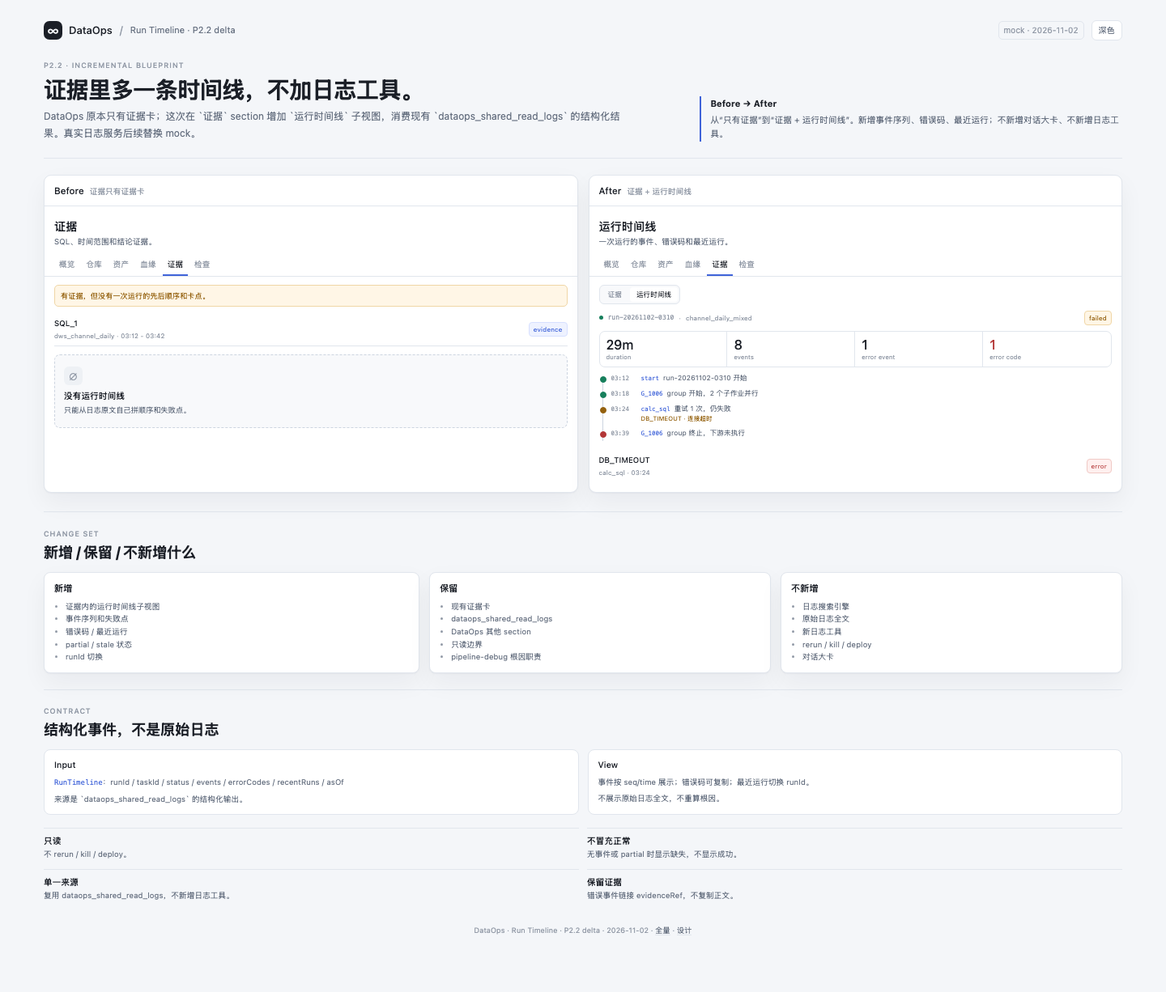
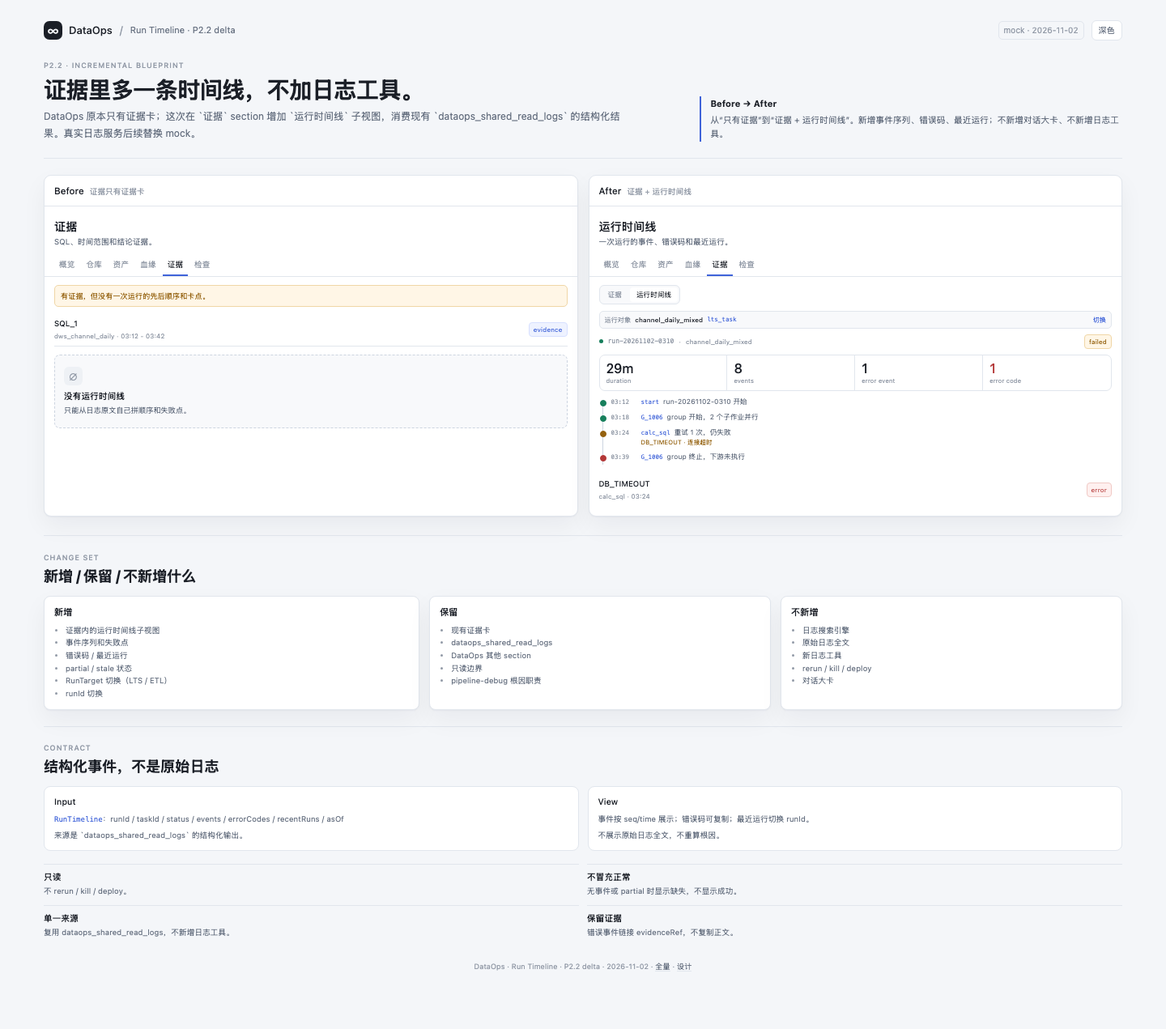
docs: add run target selector

diff --git a/prototype/run-timeline-blueprint.html b/prototype/run-timeline-blueprint.html
@@ -13,7 +13,8 @@
   .sidebar{background:var(--panel);border:1px solid var(--line);border-radius:10px;box-shadow:var(--shadow);display:flex;flex-direction:column;overflow:hidden}.side-tabs{height:39px;border-bottom:1px solid var(--line);display:flex;align-items:center;gap:13px;padding:0 14px;font-size:10px;color:var(--faint)}.side-tabs span{height:39px;display:flex;align-items:center;border-bottom:2px solid transparent}.side-tabs span.on{color:var(--ink);border-bottom-color:var(--brand)}.side-tabs .file{margin-left:auto}.panel{padding:0 18px 18px;display:flex;flex-direction:column;min-height:0;flex:1}.head{display:flex;align-items:flex-start;gap:10px;padding:14px 0 9px}.head-main{flex:1;min-width:0}.head h2{font-size:16px;line-height:21px;font-weight:500;margin:4px 0 0}.head .sub{font-size:9.5px;line-height:1.5;color:var(--muted);margin-top:4px}.head-actions{display:flex;gap:4px;flex:none;padding-top:1px}.btn{border:1px solid var(--line2);background:var(--panel);color:var(--muted);border-radius:6px;font-size:9.5px;line-height:23px;padding:0 8px;cursor:pointer;white-space:nowrap}.btn.primary{border-color:var(--brand);background:var(--brand);color:#fff}.btn:hover{border-color:var(--brand);color:var(--brand)}.btn.primary:hover{color:#fff}
   .nav{display:flex;gap:1px;margin:0 -18px;padding:0 18px;border-bottom:1px solid var(--line);overflow-x:auto}.nav span{display:flex;align-items:center;font-size:10px;line-height:30px;color:var(--faint);padding:0 7px;border-bottom:2px solid transparent;white-space:nowrap}.nav span.on{color:var(--ink);border-bottom-color:var(--brand)}.content{padding:11px 0 0;overflow:auto;min-height:0;flex:1}
   .subtabs{display:inline-flex;gap:2px;padding:2px;border:1px solid var(--line);border-radius:6px;background:var(--panel2);margin:0 0 9px}.subtabs span{font-size:9px;line-height:20px;padding:0 9px;border-radius:4px;color:var(--faint)}.subtabs span.on{background:var(--panel);color:var(--ink);box-shadow:0 1px 2px rgba(0,0,0,.04)}
-  .run-meta{display:flex;align-items:center;gap:7px;flex-wrap:wrap;color:var(--faint);font-size:8.5px;margin:0 0 7px}.run-meta .dot{width:5px;height:5px;border-radius:50%;background:var(--green)}.run-meta .sep{color:var(--line2)}.run-meta .badge{margin-left:auto}.badge{display:inline-flex;align-items:center;border:1px solid var(--line);border-radius:4px;padding:0 5px;line-height:16px;font-size:8px;color:var(--muted);background:var(--panel);white-space:nowrap}.badge.green{color:var(--green);border-color:var(--green-line);background:var(--green-bg)}.badge.amber{color:var(--amber);border-color:var(--amber-line);background:var(--amber-bg)}.badge.red{color:var(--red);border-color:var(--red-line);background:var(--red-bg)}.badge.blue{color:var(--brand);border-color:var(--brand-line);background:var(--brand-bg)}
+  .object-switch{display:flex;align-items:center;gap:6px;border:1px solid var(--line);border-radius:6px;background:var(--panel2);padding:4px 6px;margin:0 0 8px;font-size:8.5px;color:var(--faint)}.object-switch b{font-weight:500;color:var(--ink)}.object-switch .kind{color:var(--brand);font-family:var(--mono);font-size:8px}.object-switch .switch{margin-left:auto;color:var(--brand);cursor:pointer}
+.run-meta{display:flex;align-items:center;gap:7px;flex-wrap:wrap;color:var(--faint);font-size:8.5px;margin:0 0 7px}.run-meta .dot{width:5px;height:5px;border-radius:50%;background:var(--green)}.run-meta .sep{color:var(--line2)}.run-meta .badge{margin-left:auto}.badge{display:inline-flex;align-items:center;border:1px solid var(--line);border-radius:4px;padding:0 5px;line-height:16px;font-size:8px;color:var(--muted);background:var(--panel);white-space:nowrap}.badge.green{color:var(--green);border-color:var(--green-line);background:var(--green-bg)}.badge.amber{color:var(--amber);border-color:var(--amber-line);background:var(--amber-bg)}.badge.red{color:var(--red);border-color:var(--red-line);background:var(--red-bg)}.badge.blue{color:var(--brand);border-color:var(--brand-line);background:var(--brand-bg)}
   .summary{display:grid;grid-template-columns:repeat(4,minmax(0,1fr));border:1px solid var(--line);border-radius:8px;overflow:hidden;margin:0 0 8px}.metric{padding:8px 9px 7px;border-right:1px solid var(--line);min-width:0}.metric:last-child{border-right:0}.metric b{display:block;font-size:18px;line-height:20px;font-weight:500;letter-spacing:-.3px}.metric span{display:block;font-size:8px;color:var(--faint);white-space:nowrap;overflow:hidden;text-overflow:ellipsis;margin-top:1px}.metric.warn b{color:var(--amber)}.metric.err b{color:var(--red)}
   .label{display:flex;align-items:center;gap:7px;color:var(--faint);font-size:8px;font-weight:500;text-transform:uppercase;letter-spacing:.07em;margin:11px 0 5px}.label:after{content:"";height:1px;background:var(--line);flex:1}.label .link{color:var(--brand);font-size:8px;text-transform:none;letter-spacing:0;cursor:pointer}
   .timeline{position:relative;padding-left:17px}.timeline:before{content:"";position:absolute;left:5px;top:4px;bottom:4px;width:1px;background:var(--line2)}.event{position:relative;padding:0 0 10px 0;font-size:9.5px;line-height:1.45}.event:before{content:"";position:absolute;left:-16px;top:4px;width:7px;height:7px;border-radius:50%;background:var(--panel);border:1px solid var(--line2)}.event.ok:before{background:var(--green);border-color:var(--green)}.event.warn:before{background:var(--amber);border-color:var(--amber)}.event.err:before{background:var(--red);border-color:var(--red)}.event-head{display:flex;align-items:baseline;gap:6px;min-width:0}.event-time{font-family:var(--mono);font-size:8px;color:var(--faint);flex:none;width:40px}.event-job{font-family:var(--mono);font-size:8.5px;color:var(--brand);flex:none}.event-msg{color:var(--muted);min-width:0;overflow:hidden;text-overflow:ellipsis;white-space:nowrap}.event-detail{color:var(--faint);font-size:8.5px;margin-left:46px;margin-top:1px}.event-detail code{font-family:var(--mono);font-size:8px;color:var(--red);background:var(--red-bg);padding:0 3px;border-radius:3px}
@@ -33,10 +34,11 @@
   <section class="hero"><div><div class="eyebrow">P2.2 · RUN TIMELINE</div><h1>先发生了什么，卡在哪。</h1><p>Run Timeline 把 `dataops_shared_read_logs` 的结构化结果整理成一条可读时间线。它不解析原始日志、不下根因结论，也不触发 rerun。</p></div><div class="scope"><b>入口</b>DataOps → 证据 → 运行时间线；复用现有 logs tool；不新增对话卡，不新增日志工具。</div></section>
   <section class="specimen">
     <div class="chat"><div class="chat-head"><b>数据运行排障</b><span class="chat-tabs"><span>对话</span><span>轨迹</span><span>开发</span></span></div><div class="chat-body"><div class="msg">channel_daily 凌晨没出数，先看下运行时间线。</div><div class="msg user">只读，不要重跑任务。</div><div class="msg">已读取最近一次 failed run。右侧证据里可以按时间看调度、作业和失败点。</div></div><div class="chat-input">发消息或创建任务，/ 调用指令，@ 文件或对话</div></div>
-    <aside class="sidebar"><div class="side-tabs"><span class="on">DataOps</span><span>文件</span></div><div class="panel"><div class="head"><div class="head-main"><div class="eyebrow">DATAOPS / EVIDENCE</div><h2>运行时间线</h2><div class="sub">一次运行的事件、错误码和最近运行。</div></div><div class="head-actions"><button class="btn">刷新</button><button class="btn">打开证据</button></div></div><div class="nav"><span>概览</span><span>仓库</span><span>资产</span><span>血缘</span><span class="on">证据</span><span>检查</span></div><div class="content"><div class="subtabs"><span>证据</span><span class="on">运行时间线</span></div><div class="run-meta"><i class="dot"></i><span class="mono">run-20261102-0310</span><span class="sep">·</span><span>channel_daily_mixed</span><span class="sep">·</span><span>as of 03:42</span><span class="badge amber">failed</span></div><div class="summary"><div class="metric"><b>29m</b><span>duration</span></div><div class="metric"><b>8</b><span>events</span></div><div class="metric warn"><b>1</b><span>error event</span></div><div class="metric err"><b>1</b><span>error code</span></div></div><div class="note"><b>Mock 数据</b> 来自 channel-report 场景；真实日志服务后续接入。</div><div class="label">时间线 <span class="link">只读</span></div><div class="timeline"><div class="event ok"><div class="event-head"><span class="event-time">03:10</span><span class="event-job">scheduler</span><span class="event-msg">任务进入调度队列</span></div></div><div class="event ok"><div class="event-head"><span class="event-time">03:12</span><span class="event-job">start</span><span class="event-msg">run-20261102-0310 开始</span></div></div><div class="event ok"><div class="event-head"><span class="event-time">03:13</span><span class="event-job">load_check</span><span class="event-msg">上游检查通过，等待依赖</span></div></div><div class="event ok"><div class="event-head"><span class="event-time">03:18</span><span class="event-job">G_1006</span><span class="event-msg">group 开始，2 个子作业并行</span></div></div><div class="event warn"><div class="event-head"><span class="event-time">03:24</span><span class="event-job">calc_sql</span><span class="event-msg">作业重试 1 次，仍失败</span></div><div class="event-detail"><code>DB_TIMEOUT</code> · 连接超时，重试间隔 30s</div></div><div class="event err"><div class="event-head"><span class="event-time">03:39</span><span class="event-job">G_1006</span><span class="event-msg">group 终止，下游未执行</span></div></div><div class="event"><div class="event-head"><span class="event-time">03:42</span><span class="event-job">end</span><span class="event-msg">run failed</span></div></div></div><div class="label">错误码 <span class="link">复制</span></div><div class="row"><div class="row-main"><b>DB_TIMEOUT</b><span class="sub">calc_sql · 03:24</span></div><div class="right"><span class="badge red">error</span></div></div><div class="label">最近运行 <span class="link">切换 runId</span></div><div class="row"><div class="row-main"><b>run-20261102-0310</b><span class="sub">failed · 29m</span></div><div class="right">当前</div></div><div class="row"><div class="row-main"><b>run-20261101-0310</b><span class="sub">success · 26m</span></div><div class="right">昨天</div></div></div></div></aside>
+    <aside class="sidebar"><div class="side-tabs"><span class="on">DataOps</span><span>文件</span></div><div class="panel"><div class="head"><div class="head-main"><div class="eyebrow">DATAOPS / EVIDENCE</div><h2>运行时间线</h2><div class="sub">一次运行的事件、错误码和最近运行。</div></div><div class="head-actions"><button class="btn">刷新</button><button class="btn">打开证据</button></div></div><div class="nav"><span>概览</span><span>仓库</span><span>资产</span><span>血缘</span><span class="on">证据</span><span>检查</span></div><div class="content"><div class="subtabs"><span>证据</span><span class="on">运行时间线</span></div>
+<div class="object-switch"><span>运行对象</span><b>channel_daily_mixed</b><span class="kind">lts_task</span><span class="switch">切换</span></div><div class="run-meta"><i class="dot"></i><span class="mono">run-20261102-0310</span><span class="sep">·</span><span>channel_daily_mixed</span><span class="sep">·</span><span>as of 03:42</span><span class="badge amber">failed</span></div><div class="summary"><div class="metric"><b>29m</b><span>duration</span></div><div class="metric"><b>8</b><span>events</span></div><div class="metric warn"><b>1</b><span>error event</span></div><div class="metric err"><b>1</b><span>error code</span></div></div><div class="note"><b>Mock 数据</b> 来自 channel-report 场景；真实日志服务后续接入。</div><div class="label">时间线 <span class="link">只读</span></div><div class="timeline"><div class="event ok"><div class="event-head"><span class="event-time">03:10</span><span class="event-job">scheduler</span><span class="event-msg">任务进入调度队列</span></div></div><div class="event ok"><div class="event-head"><span class="event-time">03:12</span><span class="event-job">start</span><span class="event-msg">run-20261102-0310 开始</span></div></div><div class="event ok"><div class="event-head"><span class="event-time">03:13</span><span class="event-job">load_check</span><span class="event-msg">上游检查通过，等待依赖</span></div></div><div class="event ok"><div class="event-head"><span class="event-time">03:18</span><span class="event-job">G_1006</span><span class="event-msg">group 开始，2 个子作业并行</span></div></div><div class="event warn"><div class="event-head"><span class="event-time">03:24</span><span class="event-job">calc_sql</span><span class="event-msg">作业重试 1 次，仍失败</span></div><div class="event-detail"><code>DB_TIMEOUT</code> · 连接超时，重试间隔 30s</div></div><div class="event err"><div class="event-head"><span class="event-time">03:39</span><span class="event-job">G_1006</span><span class="event-msg">group 终止，下游未执行</span></div></div><div class="event"><div class="event-head"><span class="event-time">03:42</span><span class="event-job">end</span><span class="event-msg">run failed</span></div></div></div><div class="label">错误码 <span class="link">复制</span></div><div class="row"><div class="row-main"><b>DB_TIMEOUT</b><span class="sub">calc_sql · 03:24</span></div><div class="right"><span class="badge red">error</span></div></div><div class="label">最近运行 <span class="link">切换 runId</span></div><div class="row"><div class="row-main"><b>run-20261102-0310</b><span class="sub">failed · 29m</span></div><div class="right">当前</div></div><div class="row"><div class="row-main"><b>run-20261101-0310</b><span class="sub">success · 26m</span></div><div class="right">昨天</div></div></div></div></aside>
   </section>
   <section class="boundary"><div class="card"><h3>输入</h3><ul><li>`dataops_shared_read_logs` 输出</li><li>events / errorCodes / recentRuns</li><li>upstream / downstream 引用</li><li>runId / taskId / asOf</li></ul></div><div class="card"><h3>边界</h3><p>时间线是日志信号的投影，不解析原始日志；根因判断由 `pipeline-debug` / 用户完成。只读，不 rerun / kill / deploy。</p></div></section>
-  <section class="states"><div class="eyebrow">STATE GALLERY</div><h2>空状态不冒充正常</h2><div class="state-grid"><article class="state-card"><div class="eyebrow">无 runId</div><div class="empty"><div class="mark2">∅</div><b>尚未读取运行日志</b><p>先通过 dataops_shared_read_logs 读取一次任务运行。</p></div></article><article class="state-card"><div class="eyebrow">running</div><b>run-20261102-0310 · running</b><p style="margin-top:5px">显示事件流和当前阶段，不推测结果；不自动轮询。</p></article><article class="state-card"><div class="eyebrow">partial / stale</div><b>保留已有事件</b><p style="margin-top:5px">日志服务不完整时标注 partial / asOf，不显示全量成功。</p></article></div></section>
+  <section class="states"><div class="eyebrow">STATE GALLERY</div><h2>空状态不冒充正常</h2><div class="state-grid"><article class="state-card"><div class="eyebrow">无 runId</div><div class="empty"><div class="mark2">∅</div><b>尚未读取运行日志</b><p>先通过 dataops_shared_read_logs 读取一次任务运行。</p></div></article><article class="state-card"><div class="eyebrow">running</div><b>run-20261102-0310 · running</b><p style="margin-top:5px">显示事件流和当前阶段，不推测结果；不自动轮询。</p></article><article class="state-card"><div class="eyebrow">partial / stale</div><b>保留已有事件</b><p style="margin-top:5px">日志服务不完整时标注 partial / asOf，不显示全量成功。</p></article><article class="state-card"><div class="eyebrow">切换运行对象</div><b>LTS Task / ETL Job</b><p style="margin-top:5px">按对象搜索和 recentRuns 切换；不同日志源不可用时显示“未配置”，不伪造时间线。</p></article></div></section>
   <section class="flow"><div class="eyebrow">FLOW</div><h2>工具读日志，面板读结构</h2><div class="flow-grid"><div class="flow-card"><div class="n">01 · READ</div><b>dataops_shared_read_logs</b><p>读取 task / timeRange，返回结构化事件。</p></div><div class="arrow">→</div><div class="flow-card"><div class="n">02 · NORMALIZE</div><b>RunTimeline</b><p>events / errorCodes / recentRuns；不解析原始日志。</p></div><div class="arrow">→</div><div class="flow-card"><div class="n">03 · VIEW</div><b>证据 → 运行时间线</b><p>按时间、job、错误码展示；只读。</p></div></div></section>
   <section class="accept"><div><div class="eyebrow">ACCEPTANCE</div><h2>这一版必须成立的事</h2></div><ol><li>mock channel-report 显示 8 个事件</li><li>失败事件和 DB_TIMEOUT 可见</li><li>无 runId 显示空状态</li><li>running / partial / stale 有明确状态</li><li>不提供 rerun / kill</li><li>不新增对话大卡</li><li>复用唯一的 logs tool</li><li>不展示原始日志全文</li></ol></section>
   <div class="footer">DataOps · Run Timeline · P2.2 full blueprint · 2026-11-02 · <a href="run-timeline-blueprint-delta.html">增量</a> · <a href="../docs/design/run-timeline.md">设计</a></div>

diff --git a/prototype/run-timeline-blueprint-delta.html b/prototype/run-timeline-blueprint-delta.html
@@ -11,7 +11,8 @@
   .eyebrow{color:var(--faint);font-size:9px;font-weight:500;letter-spacing:.1em;text-transform:uppercase}.hero{display:grid;grid-template-columns:minmax(0,1.2fr) minmax(280px,.8fr);gap:28px;align-items:end;padding-bottom:20px;border-bottom:1px solid var(--line);margin-bottom:20px}.hero h1{font-size:28px;line-height:1.14;letter-spacing:-.8px;margin:7px 0 8px}.hero p{color:var(--muted);font-size:12px;line-height:1.7;margin:0;max-width:720px}.scope{border-left:2px solid var(--brand);padding-left:11px;color:var(--muted);font-size:10.5px;line-height:1.7}.scope b{display:block;color:var(--ink);font-size:11px;margin-bottom:2px}
   .compare{display:grid;grid-template-columns:1fr 1fr;gap:13px;margin-bottom:22px}.side{background:var(--panel);border:1px solid var(--line);border-radius:9px;box-shadow:var(--shadow);overflow:hidden}.side-head{display:flex;align-items:baseline;gap:7px;padding:10px 12px;border-bottom:1px solid var(--line)}.side-head b{font-size:11.5px;font-weight:500}.side-head span{color:var(--faint);font-size:9.5px}.panel{padding:12px;min-height:285px}.panel-title{font-size:14px;font-weight:500;margin:2px 0 2px}.panel-sub{color:var(--muted);font-size:9.5px;line-height:1.5;margin-bottom:8px}.nav{display:flex;gap:2px;border-bottom:1px solid var(--line);margin:0 -12px 10px;padding:0 12px;overflow:hidden}.nav span{font-size:9.5px;color:var(--faint);padding:5px 6px;border-bottom:2px solid transparent;white-space:nowrap}.nav span.on{color:var(--ink);border-bottom-color:var(--brand)}.subtabs{display:inline-flex;gap:2px;padding:2px;border:1px solid var(--line);border-radius:6px;background:var(--panel2);margin-bottom:8px}.subtabs span{font-size:8.5px;line-height:18px;padding:0 8px;border-radius:4px;color:var(--faint)}.subtabs span.on{background:var(--panel);color:var(--ink)}
   .before-note{border:1px solid var(--amber-line);background:var(--amber-bg);color:var(--amber);border-radius:5px;padding:6px 7px;font-size:9px;line-height:1.5;margin:0 0 8px}.empty{border:1px dashed var(--line2);border-radius:7px;background:var(--panel2);padding:14px 11px}.empty .mark2{width:23px;height:23px;border-radius:6px;background:var(--panel3);color:var(--faint);display:grid;place-items:center;font-size:15px;margin-bottom:6px}.empty b{display:block;font-size:10.5px;font-weight:500}.empty p{font-size:9px;line-height:1.5;color:var(--muted);margin:3px 0 0;max-width:400px}
-  .meta{display:flex;gap:6px;align-items:center;flex-wrap:wrap;color:var(--faint);font-size:8px;margin-bottom:7px}.meta .dot{width:5px;height:5px;border-radius:50%;background:var(--green)}.meta .chip{margin-left:auto}.chip{display:inline-flex;align-items:center;border:1px solid var(--line);border-radius:4px;padding:0 5px;line-height:16px;font-size:8px;color:var(--muted);background:var(--panel2);white-space:nowrap}.chip.amber{color:var(--amber);border-color:var(--amber-line);background:var(--amber-bg)}.chip.red{color:var(--red);border-color:var(--red-line);background:var(--red-bg)}.chip.blue{color:var(--brand);border-color:var(--brand-line);background:var(--brand-bg)}
+  .object-switch{display:flex;align-items:center;gap:5px;border:1px solid var(--line);border-radius:5px;background:var(--panel2);padding:4px 6px;margin:0 0 7px;font-size:8px;color:var(--faint)}.object-switch b{font-weight:500;color:var(--ink)}.object-switch .kind{color:var(--brand);font-family:var(--mono);font-size:7.5px}.object-switch .switch{margin-left:auto;color:var(--brand)}
+.meta{display:flex;gap:6px;align-items:center;flex-wrap:wrap;color:var(--faint);font-size:8px;margin-bottom:7px}.meta .dot{width:5px;height:5px;border-radius:50%;background:var(--green)}.meta .chip{margin-left:auto}.chip{display:inline-flex;align-items:center;border:1px solid var(--line);border-radius:4px;padding:0 5px;line-height:16px;font-size:8px;color:var(--muted);background:var(--panel2);white-space:nowrap}.chip.amber{color:var(--amber);border-color:var(--amber-line);background:var(--amber-bg)}.chip.red{color:var(--red);border-color:var(--red-line);background:var(--red-bg)}.chip.blue{color:var(--brand);border-color:var(--brand-line);background:var(--brand-bg)}
   .summary{display:grid;grid-template-columns:repeat(4,minmax(0,1fr));border:1px solid var(--line);border-radius:7px;overflow:hidden;margin:7px 0 8px}.metric{padding:7px 8px 6px;border-right:1px solid var(--line)}.metric:last-child{border-right:0}.metric b{display:block;font-size:16px;line-height:18px;font-weight:500}.metric span{font-size:7.5px;color:var(--faint);display:block;margin-top:1px;white-space:nowrap;overflow:hidden;text-overflow:ellipsis}.metric.red b{color:var(--red)}
   .timeline{position:relative;padding-left:15px}.timeline:before{content:"";position:absolute;left:4px;top:4px;bottom:4px;width:1px;background:var(--line2)}.event{position:relative;padding:0 0 7px;font-size:8.5px;line-height:1.4}.event:before{content:"";position:absolute;left:-14px;top:3px;width:6px;height:6px;border-radius:50%;background:var(--panel);border:1px solid var(--line2)}.event.ok:before{background:var(--green);border-color:var(--green)}.event.warn:before{background:var(--amber);border-color:var(--amber)}.event.err:before{background:var(--red);border-color:var(--red)}.event-head{display:flex;gap:5px;align-items:baseline;min-width:0}.event-time{font-family:var(--mono);font-size:7.5px;color:var(--faint);width:32px;flex:none}.event-job{font-family:var(--mono);font-size:7.5px;color:var(--brand);flex:none}.event-msg{color:var(--muted);white-space:nowrap;overflow:hidden;text-overflow:ellipsis}.event-detail{font-size:7.5px;color:var(--amber);margin-left:37px;margin-top:1px}
   .row{display:flex;align-items:center;gap:7px;border-bottom:1px solid var(--line);padding:6px 0;min-width:0}.row:last-child{border-bottom:0}.row-main{flex:1;min-width:0}.row b{display:block;font-size:9.5px;font-weight:500;white-space:nowrap;overflow:hidden;text-overflow:ellipsis}.row .sub{display:block;font-size:8px;color:var(--faint);margin-top:1px;white-space:nowrap;overflow:hidden;text-overflow:ellipsis}.row .right{font-size:8px;color:var(--muted);display:flex;gap:5px;align-items:center;flex:none}
@@ -28,9 +29,9 @@
   <section class="hero"><div><div class="eyebrow">P2.2 · INCREMENTAL BLUEPRINT</div><h1>证据里多一条时间线，不加日志工具。</h1><p>DataOps 原本只有证据卡；这次在 `证据` section 增加 `运行时间线` 子视图，消费现有 `dataops_shared_read_logs` 的结构化结果。真实日志服务后续替换 mock。</p></div><div class="scope"><b>Before → After</b>从“只有证据”到“证据 + 运行时间线”。新增事件序列、错误码、最近运行；不新增对话大卡、不新增日志工具。</div></section>
   <section class="compare">
     <article class="side"><div class="side-head"><b>Before</b><span>证据只有证据卡</span></div><div class="panel"><div class="panel-title">证据</div><div class="panel-sub">SQL、时间范围和结论证据。</div><div class="nav"><span>概览</span><span>仓库</span><span>资产</span><span>血缘</span><span class="on">证据</span><span>检查</span></div><div class="before-note">有证据，但没有一次运行的先后顺序和卡点。</div><div class="row"><div class="row-main"><b>SQL_1</b><span class="sub">dws_channel_daily · 03:12 - 03:42</span></div><div class="right"><span class="chip blue">evidence</span></div></div><div class="empty" style="margin-top:10px"><div class="mark2">∅</div><b>没有运行时间线</b><p>只能从日志原文自己拼顺序和失败点。</p></div></div></article>
-    <article class="side"><div class="side-head"><b>After</b><span>证据 + 运行时间线</span></div><div class="panel"><div class="panel-title">运行时间线</div><div class="panel-sub">一次运行的事件、错误码和最近运行。</div><div class="nav"><span>概览</span><span>仓库</span><span>资产</span><span>血缘</span><span class="on">证据</span><span>检查</span></div><div class="subtabs"><span>证据</span><span class="on">运行时间线</span></div><div class="meta"><i class="dot"></i><span class="mono">run-20261102-0310</span><span>·</span><span>channel_daily_mixed</span><span class="chip amber">failed</span></div><div class="summary"><div class="metric"><b>29m</b><span>duration</span></div><div class="metric"><b>8</b><span>events</span></div><div class="metric"><b>1</b><span>error event</span></div><div class="metric red"><b>1</b><span>error code</span></div></div><div class="timeline"><div class="event ok"><div class="event-head"><span class="event-time">03:12</span><span class="event-job">start</span><span class="event-msg">run-20261102-0310 开始</span></div></div><div class="event ok"><div class="event-head"><span class="event-time">03:18</span><span class="event-job">G_1006</span><span class="event-msg">group 开始，2 个子作业并行</span></div></div><div class="event warn"><div class="event-head"><span class="event-time">03:24</span><span class="event-job">calc_sql</span><span class="event-msg">重试 1 次，仍失败</span></div><div class="event-detail">DB_TIMEOUT · 连接超时</div></div><div class="event err"><div class="event-head"><span class="event-time">03:39</span><span class="event-job">G_1006</span><span class="event-msg">group 终止，下游未执行</span></div></div></div><div class="row" style="margin-top:7px"><div class="row-main"><b>DB_TIMEOUT</b><span class="sub">calc_sql · 03:24</span></div><div class="right"><span class="chip red">error</span></div></div></div></article>
+    <article class="side"><div class="side-head"><b>After</b><span>证据 + 运行时间线</span></div><div class="panel"><div class="panel-title">运行时间线</div><div class="panel-sub">一次运行的事件、错误码和最近运行。</div><div class="nav"><span>概览</span><span>仓库</span><span>资产</span><span>血缘</span><span class="on">证据</span><span>检查</span></div><div class="subtabs"><span>证据</span><span class="on">运行时间线</span></div><div class="object-switch"><span>运行对象</span><b>channel_daily_mixed</b><span class="kind">lts_task</span><span class="switch">切换</span></div><div class="meta"><i class="dot"></i><span class="mono">run-20261102-0310</span><span>·</span><span>channel_daily_mixed</span><span class="chip amber">failed</span></div><div class="summary"><div class="metric"><b>29m</b><span>duration</span></div><div class="metric"><b>8</b><span>events</span></div><div class="metric"><b>1</b><span>error event</span></div><div class="metric red"><b>1</b><span>error code</span></div></div><div class="timeline"><div class="event ok"><div class="event-head"><span class="event-time">03:12</span><span class="event-job">start</span><span class="event-msg">run-20261102-0310 开始</span></div></div><div class="event ok"><div class="event-head"><span class="event-time">03:18</span><span class="event-job">G_1006</span><span class="event-msg">group 开始，2 个子作业并行</span></div></div><div class="event warn"><div class="event-head"><span class="event-time">03:24</span><span class="event-job">calc_sql</span><span class="event-msg">重试 1 次，仍失败</span></div><div class="event-detail">DB_TIMEOUT · 连接超时</div></div><div class="event err"><div class="event-head"><span class="event-time">03:39</span><span class="event-job">G_1006</span><span class="event-msg">group 终止，下游未执行</span></div></div></div><div class="row" style="margin-top:7px"><div class="row-main"><b>DB_TIMEOUT</b><span class="sub">calc_sql · 03:24</span></div><div class="right"><span class="chip red">error</span></div></div></div></article>
   </section>
-  <section class="changes"><div class="eyebrow">CHANGE SET</div><h2>新增 / 保留 / 不新增什么</h2><div class="change-grid"><div class="change-col"><h3>新增</h3><ul><li>证据内的运行时间线子视图</li><li>事件序列和失败点</li><li>错误码 / 最近运行</li><li>partial / stale 状态</li><li>runId 切换</li></ul></div><div class="change-col"><h3>保留</h3><ul><li>现有证据卡</li><li>dataops_shared_read_logs</li><li>DataOps 其他 section</li><li>只读边界</li><li>pipeline-debug 根因职责</li></ul></div><div class="change-col"><h3>不新增</h3><ul><li>日志搜索引擎</li><li>原始日志全文</li><li>新日志工具</li><li>rerun / kill / deploy</li><li>对话大卡</li></ul></div></div></section>
+  <section class="changes"><div class="eyebrow">CHANGE SET</div><h2>新增 / 保留 / 不新增什么</h2><div class="change-grid"><div class="change-col"><h3>新增</h3><ul><li>证据内的运行时间线子视图</li><li>事件序列和失败点</li><li>错误码 / 最近运行</li><li>partial / stale 状态</li><li>RunTarget 切换（LTS / ETL）</li><li>runId 切换</li></ul></div><div class="change-col"><h3>保留</h3><ul><li>现有证据卡</li><li>dataops_shared_read_logs</li><li>DataOps 其他 section</li><li>只读边界</li><li>pipeline-debug 根因职责</li></ul></div><div class="change-col"><h3>不新增</h3><ul><li>日志搜索引擎</li><li>原始日志全文</li><li>新日志工具</li><li>rerun / kill / deploy</li><li>对话大卡</li></ul></div></div></section>
   <section class="contract"><div class="eyebrow">CONTRACT</div><h2>结构化事件，不是原始日志</h2><div class="contract-grid"><div class="contract-card"><h3>Input</h3><p><code>RunTimeline</code>：runId / taskId / status / events / errorCodes / recentRuns / asOf</p><p style="margin-top:5px">来源是 `dataops_shared_read_logs` 的结构化输出。</p></div><div class="contract-card"><h3>View</h3><p>事件按 seq/time 展示；错误码可复制；最近运行切换 runId。</p><p style="margin-top:5px">不展示原始日志全文，不重算根因。</p></div></div><div class="invariants"><div class="invariant"><b>只读</b>不 rerun / kill / deploy。</div><div class="invariant"><b>不冒充正常</b>无事件或 partial 时显示缺失，不显示成功。</div><div class="invariant"><b>单一来源</b>复用 dataops_shared_read_logs，不新增日志工具。</div><div class="invariant"><b>保留证据</b>错误事件链接 evidenceRef，不复制正文。</div></div></section>
   <div class="footer">DataOps · Run Timeline · P2.2 delta · 2026-11-02 · <a href="run-timeline-blueprint.html">全量</a> · <a href="../docs/design/run-timeline.md">设计</a></div>
 </div>

diff --git a/docs/design/run-timeline.md b/docs/design/run-timeline.md
@@ -30,8 +30,9 @@ DataOps
 ## 2.1 对象模型
 
 ```text
-LTS task 定义
-  lts_code/<dir>/task.yaml
+RunTarget（运行对象）
+  kind: lts_task | etl_job
+  ref: 调度 task / LTS task / ETL job
         │ 1:N
         ▼
 run 运行实例
@@ -39,35 +40,69 @@ run 运行实例
         │ 1:N
         ▼
 job / group / dependency 事件
-  job、phase、level、code
 ```
 
 主键是 **runId**，不是 LTS task 定义。
 
-- `taskRef` 是上下文，指向 LTS task / 调度 task
-- `runId` 才是时间线的归属对象
+- `RunTarget` 是时间线的入口
+- `runId` 才是一次运行的归属对象
 - `job` 是 run 内的事件维度
-- 同一 task 的多次运行各自独立，不合并成一条“任务时间线”
+- LTS task 和 ETL job 是两种不同对象，不能混成一个“task list”
+- 同一对象的多次运行各自独立，不合并
 - P2.2 不做跨 run 聚合；跨 run 汇总属于后续 Task Health
 
 ```text
-taskRef
-  id: 调度任务 ID
-  name: LTS task name
+RunTarget
+  kind: lts_task | etl_job
+  id: 调度 task / ETL job ID
+  name: LTS task name / ETL job name
   path?: lts_code/.../task.yaml
+  package?: packageName
+  owner?
 runId
 bizDate?
 ```
 
-调度 task ID 和 LTS task name 可能不同，不能用其中一个假装另一个；映射不到时保留 `taskRef` 和 gap。
+调度 task ID 和 LTS task name 可能不同；ETL job 也可能不属于 LTS。映射不到时保留 `RunTarget` 和 gap，不伪造。
+
+## 2.2 切换运行对象
+
+时间线顶部必须有“运行对象”选择器，而不只是当前 task 的 recentRuns：
+
+```text
+运行对象
+  [LTS Task] [ETL Job]
+  搜索 task / job
+  最近失败
+  channel_daily_mixed       LTS
+  order_daily_serial        LTS
+  etl_channel_sync          ETL
+  etl_channel_bds           ETL
+```
+
+选择后：
+
+```text
+RunTarget
+→ 查询该对象的 recentRuns
+→ 选择一个 runId
+→ 展示 RunTimeline
+```
+
+约束：
+
+- 切换 RunTarget 不是切换 section，不新增面板
+- recentRuns 只属于当前 RunTarget
+- LTS 和 ETL 的日志源不同，selector 只发起查询，不伪造数据
+- 某个对象没有日志适配时显示“日志源未配置”，不显示空时间线为正常
 
 ## 3. 输入
 
-沿用 `dataops_shared_read_logs` 的输出，补充一个稳定的时间线视图：
+沿用 `dataops_shared_read_logs` 的输出，补充 RunTarget 和时间线视图。`dataops_shared_read_logs` 的 `taskId` 兼容参数继续保留，新调用建议传 `target`。
 
 ```text
 RunTimeline
-  taskRef { id, name, path? }
+  target { kind, id, name, path?, package? }
   runId
   bizDate?
   status: success | failed | running | partial
